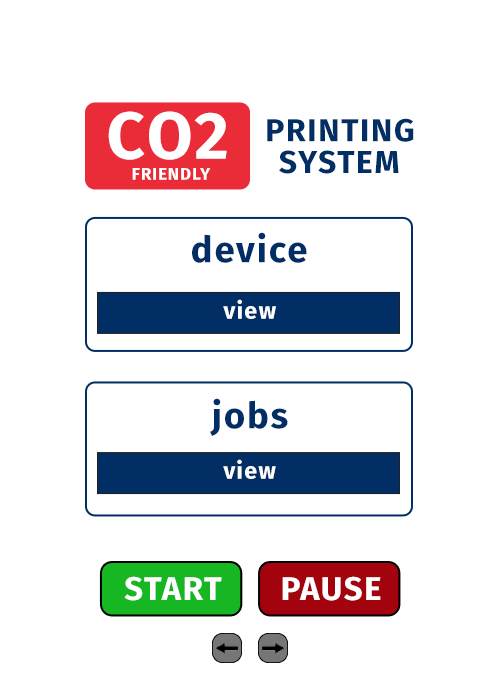
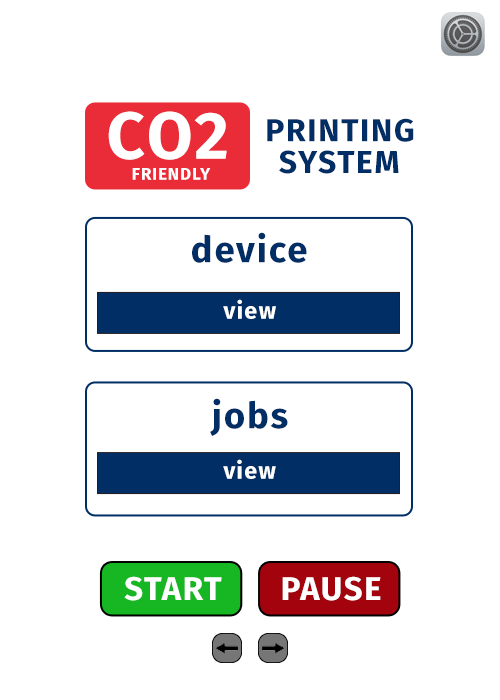
CO2 gui

Changed region(s): [[0.87, 0.0, 0.99, 0.09]]

diff --git a/sfml/State.cpp b/sfml/State.cpp
@@ -288,6 +288,10 @@ void ViewState::update(sf::RenderWindow& window, std::string &input, sf::Text to
             and mousePos.y >= 451 and mousePos.y < +493
             and sf::Mouse::isButtonPressed(sf::Mouse::Left)) {
             manager.pushState(new JobState(window, manager, true));
+        } else if(mousePos.x >= 441 and mousePos.x <= 484
+            and mousePos.y >= 12 and mousePos.y < +55
+            and sf::Mouse::isButtonPressed(sf::Mouse::Left)){
+            manager.pushState(new CO2State(window, manager, true));
         } else if (mousePos.x >= 100 and mousePos.x <= 242
             and mousePos.y >= 562 and mousePos.y < +616
             and sf::Mouse::isButtonPressed(sf::Mouse::Left)
@@ -482,8 +486,8 @@ void DeviceState::update(sf::RenderWindow& window, std::string &input, sf::Text 
 
             // debugging
 
-            cout<<this->manager.getMainSystem().getDevices()[i]->getTypeJob()<< " "
-            <<this->manager.getMainSystem().getJobs()[this->manager.getMainSystem().getJobs().size()-1]->getType()<<endl;
+            //cout<<this->manager.getMainSystem().getDevices()[i]->getTypeJob()<< " "
+            //<<this->manager.getMainSystem().getJobs()[this->manager.getMainSystem().getJobs().size()-1]->getType()<<endl;
 
 
             if (!admin and this->manager.getMainSystem().getDevices()[i]->getTypeJob() ==
@@ -522,3 +526,51 @@ void DeviceState::update(sf::RenderWindow& window, std::string &input, sf::Text 
 
 }
 void DeviceState::exit(sf::RenderWindow& window){}
+
+CO2State::CO2State(sf::RenderWindow& window, stateManager& manager, bool isAdmin) : State(manager){admin = isAdmin;}
+void CO2State::enter(sf::RenderWindow &window, System &sys) {
+    sys.calculateStatistics();
+    // Load all textures (and give an error in case failure)
+    if (!viewTexture.loadFromFile("./assets/empty.png")) {
+        std::cerr << "Error loading texture file!" << std::endl;
+    }
+
+    viewBg.setTexture(viewTexture);
+
+    if (!font.loadFromFile("./fonts/coolvetica_rg.otf")) {
+        std::cerr << "Failed to load default font!" << std::endl;
+    }
+
+    cost += sys.getTotalOperatingCosts();
+    sf::Text totalOperatingCost("Total Operating Costs : "+to_string(sys.getTotalOperatingCosts()), font, 18);
+    totalOperatingCost.setFillColor(sf::Color::Black);
+    totalOperatingCost.setPosition(50, 260);
+    neededText.emplace_back(totalOperatingCost);
+
+    sf::Text mostUsedDevice("Most Used Device : "+sys.getMostUsedDevice()->getName(), font, 18);
+    mostUsedDevice.setFillColor(sf::Color::Black);
+    mostUsedDevice.setPosition(50, 320);
+    neededText.emplace_back(mostUsedDevice);
+
+    sf::Text totalCO2Emission("Total CO2 Emission : "+to_string(sys.getTotalEmissions()), font, 18);
+    totalCO2Emission.setFillColor(sf::Color::Black);
+    totalCO2Emission.setPosition(50, 380);
+    neededText.emplace_back(totalCO2Emission);
+
+    sf::Text averageCO2PerPage("Average CO2 Per Page : "+to_string(sys.getAverageCO2perPage()), font, 18);
+    averageCO2PerPage.setFillColor(sf::Color::Black);
+    averageCO2PerPage.setPosition(50, 440);
+    neededText.emplace_back(averageCO2PerPage);
+
+    sf::Text mostUsedCompensation("Most Used Compensation : "+sys.getMostUsedCompensation()->getName(), font, 18);
+    mostUsedCompensation.setFillColor(sf::Color::Black);
+    mostUsedCompensation.setPosition(50, 500);
+    neededText.emplace_back(mostUsedCompensation);
+}
+void CO2State::update(sf::RenderWindow &window, std::string &input, sf::Text toPrint) {
+    window.draw(viewBg);
+    for (auto &text : neededText) {
+        window.draw(text);
+    }
+}
+void CO2State::exit(sf::RenderWindow &window) {}

diff --git a/sfml/State.h b/sfml/State.h
@@ -120,6 +120,21 @@ public:
     void exit(sf::RenderWindow& window) override;
 };
 
+class CO2State : public State {
+private:
+    sf::Texture viewTexture;
+    sf::Sprite viewBg;
+
+    int cost = 0;
+    std::vector<sf::Text> neededText;
+
+public:
+    CO2State(sf::RenderWindow& window, stateManager& manager, bool isAdmin);
+    void enter(sf::RenderWindow& window, System &sys) override;
+    void update(sf::RenderWindow& window, std::string &input, sf::Text toPrint) override;
+    void exit(sf::RenderWindow& window) override;
+};
+
 bool isNumeric(const std::string& str);
 int getRandomNumber(int min, int max);
 Job* addNewJob(int jobNumber, int pageCount, JobEnum type, const string& userName);

diff --git a/src/System.cpp b/src/System.cpp
@@ -328,7 +328,7 @@ void System::calculateStatistics() {
     for(auto device : _devices){
         totalCosts += device->get_total_pages() * device->getCosts();
     }
-    totalOperatingCosts = totalCosts;
+    totalOperatingCosts += totalCosts;
 
     Device* most_used_dev = nullptr;
     long long unsigned int queue_size = 0;

diff --git a/src/PrinterMain.cpp b/src/PrinterMain.cpp
@@ -172,7 +172,6 @@ int main() {
         }
     }
 
-    cout<<""<<endl;
     return 0;
 
     return 0;
